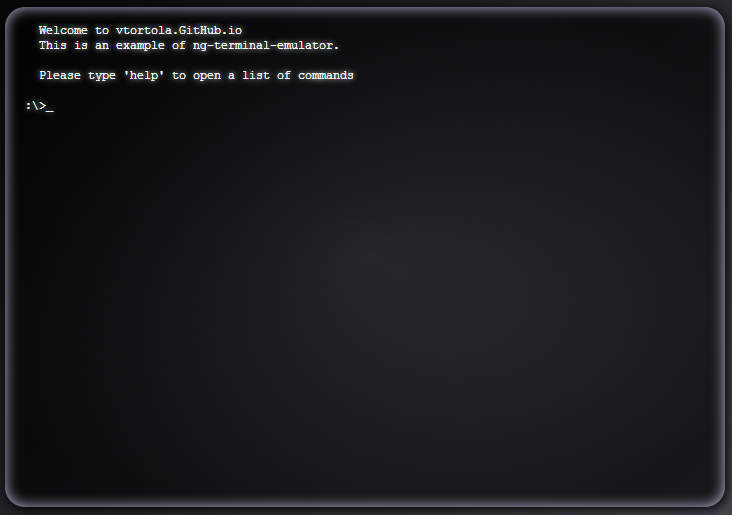
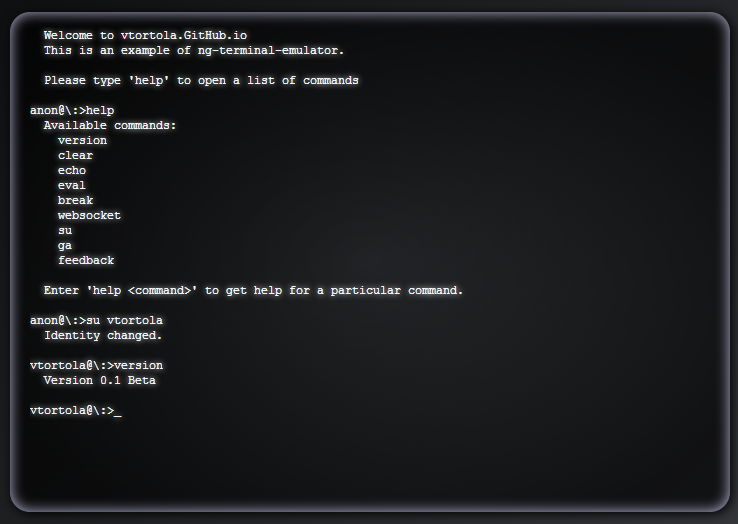
Prompt

Changed region(s): [[0.0, 0.0, 0.9918, 0.9942]]

diff --git a/src/vtortola.ng-terminal.js b/src/vtortola.ng-terminal.js
@@ -35,7 +35,7 @@
             _startEffectUrl = url
         };
 
-        me.defaultPrompt = ':\\>';
+        me.promptConfiguration = { end:':>', user:'anon', separator:'@', path:'\\'};
 
         var emptyDonePromise = function ($q,v) {
             var deferred = $q.defer();
@@ -57,8 +57,8 @@
                     else
                         return emptyDonePromise($q, function () { });
                 },
-                getDefaultPrompt: function () {
-                    return me.defaultPrompt;
+                getPromptConfiguration: function () {
+                    return me.promptConfiguration;
                 }
             };
         }];
@@ -68,12 +68,65 @@
     return provider();
 })
 
-.controller('terminalController', ['$scope','terminalConfiguration', function ($scope, terminalConfiguration) {
-    var re = /[\0-\x1F\x7F-\x9F\xAD\u0378\u0379\u037F-\u0383\u038B\u038D\u03A2\u0528-\u0530\u0557\u0558\u0560\u0588\u058B-\u058E\u0590\u05C8-\u05CF\u05EB-\u05EF\u05F5-\u0605\u061C\u061D\u06DD\u070E\u070F\u074B\u074C\u07B2-\u07BF\u07FB-\u07FF\u082E\u082F\u083F\u085C\u085D\u085F-\u089F\u08A1\u08AD-\u08E3\u08FF\u0978\u0980\u0984\u098D\u098E\u0991\u0992\u09A9\u09B1\u09B3-\u09B5\u09BA\u09BB\u09C5\u09C6\u09C9\u09CA\u09CF-\u09D6\u09D8-\u09DB\u09DE\u09E4\u09E5\u09FC-\u0A00\u0A04\u0A0B-\u0A0E\u0A11\u0A12\u0A29\u0A31\u0A34\u0A37\u0A3A\u0A3B\u0A3D\u0A43-\u0A46\u0A49\u0A4A\u0A4E-\u0A50\u0A52-\u0A58\u0A5D\u0A5F-\u0A65\u0A76-\u0A80\u0A84\u0A8E\u0A92\u0AA9\u0AB1\u0AB4\u0ABA\u0ABB\u0AC6\u0ACA\u0ACE\u0ACF\u0AD1-\u0ADF\u0AE4\u0AE5\u0AF2-\u0B00\u0B04\u0B0D\u0B0E\u0B11\u0B12\u0B29\u0B31\u0B34\u0B3A\u0B3B\u0B45\u0B46\u0B49\u0B4A\u0B4E-\u0B55\u0B58-\u0B5B\u0B5E\u0B64\u0B65\u0B78-\u0B81\u0B84\u0B8B-\u0B8D\u0B91\u0B96-\u0B98\u0B9B\u0B9D\u0BA0-\u0BA2\u0BA5-\u0BA7\u0BAB-\u0BAD\u0BBA-\u0BBD\u0BC3-\u0BC5\u0BC9\u0BCE\u0BCF\u0BD1-\u0BD6\u0BD8-\u0BE5\u0BFB-\u0C00\u0C04\u0C0D\u0C11\u0C29\u0C34\u0C3A-\u0C3C\u0C45\u0C49\u0C4E-\u0C54\u0C57\u0C5A-\u0C5F\u0C64\u0C65\u0C70-\u0C77\u0C80\u0C81\u0C84\u0C8D\u0C91\u0CA9\u0CB4\u0CBA\u0CBB\u0CC5\u0CC9\u0CCE-\u0CD4\u0CD7-\u0CDD\u0CDF\u0CE4\u0CE5\u0CF0\u0CF3-\u0D01\u0D04\u0D0D\u0D11\u0D3B\u0D3C\u0D45\u0D49\u0D4F-\u0D56\u0D58-\u0D5F\u0D64\u0D65\u0D76-\u0D78\u0D80\u0D81\u0D84\u0D97-\u0D99\u0DB2\u0DBC\u0DBE\u0DBF\u0DC7-\u0DC9\u0DCB-\u0DCE\u0DD5\u0DD7\u0DE0-\u0DF1\u0DF5-\u0E00\u0E3B-\u0E3E\u0E5C-\u0E80\u0E83\u0E85\u0E86\u0E89\u0E8B\u0E8C\u0E8E-\u0E93\u0E98\u0EA0\u0EA4\u0EA6\u0EA8\u0EA9\u0EAC\u0EBA\u0EBE\u0EBF\u0EC5\u0EC7\u0ECE\u0ECF\u0EDA\u0EDB\u0EE0-\u0EFF\u0F48\u0F6D-\u0F70\u0F98\u0FBD\u0FCD\u0FDB-\u0FFF\u10C6\u10C8-\u10CC\u10CE\u10CF\u1249\u124E\u124F\u1257\u1259\u125E\u125F\u1289\u128E\u128F\u12B1\u12B6\u12B7\u12BF\u12C1\u12C6\u12C7\u12D7\u1311\u1316\u1317\u135B\u135C\u137D-\u137F\u139A-\u139F\u13F5-\u13FF\u169D-\u169F\u16F1-\u16FF\u170D\u1715-\u171F\u1737-\u173F\u1754-\u175F\u176D\u1771\u1774-\u177F\u17DE\u17DF\u17EA-\u17EF\u17FA-\u17FF\u180F\u181A-\u181F\u1878-\u187F\u18AB-\u18AF\u18F6-\u18FF\u191D-\u191F\u192C-\u192F\u193C-\u193F\u1941-\u1943\u196E\u196F\u1975-\u197F\u19AC-\u19AF\u19CA-\u19CF\u19DB-\u19DD\u1A1C\u1A1D\u1A5F\u1A7D\u1A7E\u1A8A-\u1A8F\u1A9A-\u1A9F\u1AAE-\u1AFF\u1B4C-\u1B4F\u1B7D-\u1B7F\u1BF4-\u1BFB\u1C38-\u1C3A\u1C4A-\u1C4C\u1C80-\u1CBF\u1CC8-\u1CCF\u1CF7-\u1CFF\u1DE7-\u1DFB\u1F16\u1F17\u1F1E\u1F1F\u1F46\u1F47\u1F4E\u1F4F\u1F58\u1F5A\u1F5C\u1F5E\u1F7E\u1F7F\u1FB5\u1FC5\u1FD4\u1FD5\u1FDC\u1FF0\u1FF1\u1FF5\u1FFF\u200B-\u200F\u202A-\u202E\u2060-\u206F\u2072\u2073\u208F\u209D-\u209F\u20BB-\u20CF\u20F1-\u20FF\u218A-\u218F\u23F4-\u23FF\u2427-\u243F\u244B-\u245F\u2700\u2B4D-\u2B4F\u2B5A-\u2BFF\u2C2F\u2C5F\u2CF4-\u2CF8\u2D26\u2D28-\u2D2C\u2D2E\u2D2F\u2D68-\u2D6E\u2D71-\u2D7E\u2D97-\u2D9F\u2DA7\u2DAF\u2DB7\u2DBF\u2DC7\u2DCF\u2DD7\u2DDF\u2E3C-\u2E7F\u2E9A\u2EF4-\u2EFF\u2FD6-\u2FEF\u2FFC-\u2FFF\u3040\u3097\u3098\u3100-\u3104\u312E-\u3130\u318F\u31BB-\u31BF\u31E4-\u31EF\u321F\u32FF\u4DB6-\u4DBF\u9FCD-\u9FFF\uA48D-\uA48F\uA4C7-\uA4CF\uA62C-\uA63F\uA698-\uA69E\uA6F8-\uA6FF\uA78F\uA794-\uA79F\uA7AB-\uA7F7\uA82C-\uA82F\uA83A-\uA83F\uA878-\uA87F\uA8C5-\uA8CD\uA8DA-\uA8DF\uA8FC-\uA8FF\uA954-\uA95E\uA97D-\uA97F\uA9CE\uA9DA-\uA9DD\uA9E0-\uA9FF\uAA37-\uAA3F\uAA4E\uAA4F\uAA5A\uAA5B\uAA7C-\uAA7F\uAAC3-\uAADA\uAAF7-\uAB00\uAB07\uAB08\uAB0F\uAB10\uAB17-\uAB1F\uAB27\uAB2F-\uABBF\uABEE\uABEF\uABFA-\uABFF\uD7A4-\uD7AF\uD7C7-\uD7CA\uD7FC-\uF8FF\uFA6E\uFA6F\uFADA-\uFAFF\uFB07-\uFB12\uFB18-\uFB1C\uFB37\uFB3D\uFB3F\uFB42\uFB45\uFBC2-\uFBD2\uFD40-\uFD4F\uFD90\uFD91\uFDC8-\uFDEF\uFDFE\uFDFF\uFE1A-\uFE1F\uFE27-\uFE2F\uFE53\uFE67\uFE6C-\uFE6F\uFE75\uFEFD-\uFF00\uFFBF-\uFFC1\uFFC8\uFFC9\uFFD0\uFFD1\uFFD8\uFFD9\uFFDD-\uFFDF\uFFE7\uFFEF-\uFFFB\uFFFE\uFFFF]/g;
-    var defaultPrompt = terminalConfiguration.getDefaultPrompt();
+.service('prompt', ['terminalConfiguration', function(terminalConfiguration){
+    var prompt = function(){
+        var me = {};
+        var _user, _path, _userPathSeparator, _promptEnd;
 
+        var config = terminalConfiguration.getPromptConfiguration();
+
+        var build = function () {
+            me.text = _user + _userPathSeparator + _path + _promptEnd;
+        };
+
+        me.resetPath = function () {
+            _path = config && config.path ? config.path : '';
+            build();
+        };
+
+        me.resetUser = function () {
+            _user = config && config.user ? config.user : '';
+            build();
+        }
+
+        me.reset = function () {
+            _user = config && config.user ? config.user : '';
+            _path = config && config.path ? config.path : '';
+            _userPathSeparator = config && config.separator ? config.separator : '';
+            _promptEnd = config && config.end ? config.end : '';
+            build();
+        };
+
+        me.user = function (user) {
+            if (user) {
+                _user = user;
+                build();
+            }
+            return _user;
+        };
+
+        me.path = function (path) {
+            if (path) {
+                _path = path;
+                build();
+            }
+            return _path;
+        }
+
+        me.text = '';
+
+        me.reset();
+
+        return me;
+    };
+    return prompt();
+}])
+
+.controller('terminalController', ['$scope','terminalConfiguration','prompt', function ($scope, terminalConfiguration, prompt) {
+    var re = /[\0-\x1F\x7F-\x9F\xAD\u0378\u0379\u037F-\u0383\u038B\u038D\u03A2\u0528-\u0530\u0557\u0558\u0560\u0588\u058B-\u058E\u0590\u05C8-\u05CF\u05EB-\u05EF\u05F5-\u0605\u061C\u061D\u06DD\u070E\u070F\u074B\u074C\u07B2-\u07BF\u07FB-\u07FF\u082E\u082F\u083F\u085C\u085D\u085F-\u089F\u08A1\u08AD-\u08E3\u08FF\u0978\u0980\u0984\u098D\u098E\u0991\u0992\u09A9\u09B1\u09B3-\u09B5\u09BA\u09BB\u09C5\u09C6\u09C9\u09CA\u09CF-\u09D6\u09D8-\u09DB\u09DE\u09E4\u09E5\u09FC-\u0A00\u0A04\u0A0B-\u0A0E\u0A11\u0A12\u0A29\u0A31\u0A34\u0A37\u0A3A\u0A3B\u0A3D\u0A43-\u0A46\u0A49\u0A4A\u0A4E-\u0A50\u0A52-\u0A58\u0A5D\u0A5F-\u0A65\u0A76-\u0A80\u0A84\u0A8E\u0A92\u0AA9\u0AB1\u0AB4\u0ABA\u0ABB\u0AC6\u0ACA\u0ACE\u0ACF\u0AD1-\u0ADF\u0AE4\u0AE5\u0AF2-\u0B00\u0B04\u0B0D\u0B0E\u0B11\u0B12\u0B29\u0B31\u0B34\u0B3A\u0B3B\u0B45\u0B46\u0B49\u0B4A\u0B4E-\u0B55\u0B58-\u0B5B\u0B5E\u0B64\u0B65\u0B78-\u0B81\u0B84\u0B8B-\u0B8D\u0B91\u0B96-\u0B98\u0B9B\u0B9D\u0BA0-\u0BA2\u0BA5-\u0BA7\u0BAB-\u0BAD\u0BBA-\u0BBD\u0BC3-\u0BC5\u0BC9\u0BCE\u0BCF\u0BD1-\u0BD6\u0BD8-\u0BE5\u0BFB-\u0C00\u0C04\u0C0D\u0C11\u0C29\u0C34\u0C3A-\u0C3C\u0C45\u0C49\u0C4E-\u0C54\u0C57\u0C5A-\u0C5F\u0C64\u0C65\u0C70-\u0C77\u0C80\u0C81\u0C84\u0C8D\u0C91\u0CA9\u0CB4\u0CBA\u0CBB\u0CC5\u0CC9\u0CCE-\u0CD4\u0CD7-\u0CDD\u0CDF\u0CE4\u0CE5\u0CF0\u0CF3-\u0D01\u0D04\u0D0D\u0D11\u0D3B\u0D3C\u0D45\u0D49\u0D4F-\u0D56\u0D58-\u0D5F\u0D64\u0D65\u0D76-\u0D78\u0D80\u0D81\u0D84\u0D97-\u0D99\u0DB2\u0DBC\u0DBE\u0DBF\u0DC7-\u0DC9\u0DCB-\u0DCE\u0DD5\u0DD7\u0DE0-\u0DF1\u0DF5-\u0E00\u0E3B-\u0E3E\u0E5C-\u0E80\u0E83\u0E85\u0E86\u0E89\u0E8B\u0E8C\u0E8E-\u0E93\u0E98\u0EA0\u0EA4\u0EA6\u0EA8\u0EA9\u0EAC\u0EBA\u0EBE\u0EBF\u0EC5\u0EC7\u0ECE\u0ECF\u0EDA\u0EDB\u0EE0-\u0EFF\u0F48\u0F6D-\u0F70\u0F98\u0FBD\u0FCD\u0FDB-\u0FFF\u10C6\u10C8-\u10CC\u10CE\u10CF\u1249\u124E\u124F\u1257\u1259\u125E\u125F\u1289\u128E\u128F\u12B1\u12B6\u12B7\u12BF\u12C1\u12C6\u12C7\u12D7\u1311\u1316\u1317\u135B\u135C\u137D-\u137F\u139A-\u139F\u13F5-\u13FF\u169D-\u169F\u16F1-\u16FF\u170D\u1715-\u171F\u1737-\u173F\u1754-\u175F\u176D\u1771\u1774-\u177F\u17DE\u17DF\u17EA-\u17EF\u17FA-\u17FF\u180F\u181A-\u181F\u1878-\u187F\u18AB-\u18AF\u18F6-\u18FF\u191D-\u191F\u192C-\u192F\u193C-\u193F\u1941-\u1943\u196E\u196F\u1975-\u197F\u19AC-\u19AF\u19CA-\u19CF\u19DB-\u19DD\u1A1C\u1A1D\u1A5F\u1A7D\u1A7E\u1A8A-\u1A8F\u1A9A-\u1A9F\u1AAE-\u1AFF\u1B4C-\u1B4F\u1B7D-\u1B7F\u1BF4-\u1BFB\u1C38-\u1C3A\u1C4A-\u1C4C\u1C80-\u1CBF\u1CC8-\u1CCF\u1CF7-\u1CFF\u1DE7-\u1DFB\u1F16\u1F17\u1F1E\u1F1F\u1F46\u1F47\u1F4E\u1F4F\u1F58\u1F5A\u1F5C\u1F5E\u1F7E\u1F7F\u1FB5\u1FC5\u1FD4\u1FD5\u1FDC\u1FF0\u1FF1\u1FF5\u1FFF\u200B-\u200F\u202A-\u202E\u2060-\u206F\u2072\u2073\u208F\u209D-\u209F\u20BB-\u20CF\u20F1-\u20FF\u218A-\u218F\u23F4-\u23FF\u2427-\u243F\u244B-\u245F\u2700\u2B4D-\u2B4F\u2B5A-\u2BFF\u2C2F\u2C5F\u2CF4-\u2CF8\u2D26\u2D28-\u2D2C\u2D2E\u2D2F\u2D68-\u2D6E\u2D71-\u2D7E\u2D97-\u2D9F\u2DA7\u2DAF\u2DB7\u2DBF\u2DC7\u2DCF\u2DD7\u2DDF\u2E3C-\u2E7F\u2E9A\u2EF4-\u2EFF\u2FD6-\u2FEF\u2FFC-\u2FFF\u3040\u3097\u3098\u3100-\u3104\u312E-\u3130\u318F\u31BB-\u31BF\u31E4-\u31EF\u321F\u32FF\u4DB6-\u4DBF\u9FCD-\u9FFF\uA48D-\uA48F\uA4C7-\uA4CF\uA62C-\uA63F\uA698-\uA69E\uA6F8-\uA6FF\uA78F\uA794-\uA79F\uA7AB-\uA7F7\uA82C-\uA82F\uA83A-\uA83F\uA878-\uA87F\uA8C5-\uA8CD\uA8DA-\uA8DF\uA8FC-\uA8FF\uA954-\uA95E\uA97D-\uA97F\uA9CE\uA9DA-\uA9DD\uA9E0-\uA9FF\uAA37-\uAA3F\uAA4E\uAA4F\uAA5A\uAA5B\uAA7C-\uAA7F\uAAC3-\uAADA\uAAF7-\uAB00\uAB07\uAB08\uAB0F\uAB10\uAB17-\uAB1F\uAB27\uAB2F-\uABBF\uABEE\uABEF\uABFA-\uABFF\uD7A4-\uD7AF\uD7C7-\uD7CA\uD7FC-\uF8FF\uFA6E\uFA6F\uFADA-\uFAFF\uFB07-\uFB12\uFB18-\uFB1C\uFB37\uFB3D\uFB3F\uFB42\uFB45\uFBC2-\uFBD2\uFD40-\uFD4F\uFD90\uFD91\uFDC8-\uFDEF\uFDFE\uFDFF\uFE1A-\uFE1F\uFE27-\uFE2F\uFE53\uFE67\uFE6C-\uFE6F\uFE75\uFEFD-\uFF00\uFFBF-\uFFC1\uFFC8\uFFC9\uFFD0\uFFD1\uFFD8\uFFD9\uFFDD-\uFFDF\uFFE7\uFFEF-\uFFFB\uFFFE\uFFFF]/g;
+    
     $scope.commandLine = '';
-    $scope.prompt = defaultPrompt;
+    $scope.prompt = prompt;
     $scope.results = [];
     $scope.showPrompt = true;
     $scope.typeSound = function () { };
@@ -108,12 +161,27 @@
         }
         else if (cmd.command == 'change-prompt') {
             if (cmd.prompt) {
-                $scope.prompt = cmd.prompt;
+                if (cmd.prompt.user)
+                    $scope.prompt.user(cmd.prompt.user);
+                if (cmd.prompt.path)
+                    $scope.prompt.path(cmd.prompt.path);
                 $scope.$$phase || $scope.$apply();
             }
         }
         else if (cmd.command == 'reset-prompt') {
-            $scope.prompt = defaultPrompt;
+            var resetAll = true;
+            if (cmd.prompt) {
+                if (cmd.prompt.user) {
+                    $scope.prompt.resetUser();
+                    resetAll = false;
+                }
+                else if (cmd.prompt.path) {
+                    $scope.prompt.resetPath();
+                    resetAll = false;
+                }
+            }
+            if(resetAll)
+                $scope.prompt.reset();
             $scope.$$phase || $scope.$apply();
         }
     });
@@ -169,7 +237,7 @@
         if(command != commandHistory[commandHistory.length-1])
             commandHistory.push(command);
 
-        $scope.results.push({ type: 'text', text:[$scope.prompt + command] });
+        $scope.results.push({ type: 'text', text:[$scope.prompt.text + command] });
         $scope.$emit('terminal-input', [{ command: command }]);
         
         $scope.$apply();
@@ -187,7 +255,7 @@
     return {
         restrict: 'E',
         controller: 'terminalController',
-        template: "<section class='terminal' ng-paste='handlePaste($event)'><div class='terminal-viewport'><div class='terminal-results'></div><span class='terminal-prompt' ng-show='showPrompt'>{{prompt}}</span><span class='terminal-input'>{{commandLine}}</span><span class='terminal-cursor'>_</span></div></section>",
+        template: "<section class='terminal' ng-paste='handlePaste($event)'><div class='terminal-viewport'><div class='terminal-results'></div><span class='terminal-prompt' ng-show='showPrompt'>{{prompt.text}}</span><span class='terminal-input'>{{commandLine}}</span><span class='terminal-cursor'>_</span></div></section>",
         link: function (scope, element, attrs, controller) {
             
             var consoleView = angular.element(element[0].querySelector('.terminal-viewport'));

diff --git a/tests/spec/vtortola.ng-terminal.spec.js b/tests/spec/vtortola.ng-terminal.spec.js
@@ -34,6 +34,8 @@
             scope.$on('terminal-input', function (e) {
                 expect(scope.commandLine).toEqual("");
                 expect(scope.results.length).toEqual(1);
+                expect(scope.results[0].text.length).toEqual(1);
+                expect(scope.results[0].text[0]).toEqual(scope.prompt.text + "RRR");
                 done();
             });
 
@@ -84,16 +86,16 @@
 
                 scope.$broadcast('terminal-command', {
                     command: 'change-prompt',
-                    prompt: 'testPrompt'
+                    prompt: { user: 'testPrompt' }
                 });
 
-                expect(scope.prompt).toEqual("testPrompt");
+                expect(scope.prompt.text).toEqual("testPrompt@\\:>");
 
                 scope.$emit('terminal-command', {
                     command: 'reset-prompt'
                 });
 
-                expect(scope.prompt).toEqual(":\\>");
+                expect(scope.prompt.text).toEqual("anon@\\:>");
             });
 
             it('Can clear results', function () {
@@ -113,5 +115,64 @@
             });
         });
         
+    });
+
+    describe('Service: prompt', function () {
+        var prompt = null;
+        beforeEach(inject(['prompt', function (p) {
+            prompt = p;
+        }]));
+
+        it('Default prompt', function () {
+            expect(prompt.text).toEqual("anon@\\:>");
+        });
+
+        it('Can set properties on prompt', function () {
+            prompt.path('\\user\\whatever');
+            prompt.user('vtortola');
+            
+            expect(prompt.path()).toEqual("\\user\\whatever");
+            expect(prompt.user()).toEqual("vtortola");
+            expect(prompt.text).toEqual("vtortola@\\user\\whatever:>");
+        });
+
+        it('Can reset all properties on prompt', function () {
+            prompt.path('\\user\\whatever');
+            prompt.user('vtortola');
+
+            expect(prompt.path()).toEqual("\\user\\whatever");
+            expect(prompt.user()).toEqual("vtortola");
+            expect(prompt.text).toEqual("vtortola@\\user\\whatever:>");
+
+            prompt.reset();
+
+            expect(prompt.text).toEqual("anon@\\:>");
+        });
+
+        it('Can reset user property on prompt', function () {
+            prompt.path('\\user\\whatever');
+            prompt.user('vtortola');
+
+            expect(prompt.path()).toEqual("\\user\\whatever");
+            expect(prompt.user()).toEqual("vtortola");
+            expect(prompt.text).toEqual("vtortola@\\user\\whatever:>");
+
+            prompt.resetUser();
+
+            expect(prompt.text).toEqual("anon@\\user\\whatever:>");
+        });
+
+        it('Can reset path property on prompt', function () {
+            prompt.path('\\user\\whatever');
+            prompt.user('vtortola');
+
+            expect(prompt.path()).toEqual("\\user\\whatever");
+            expect(prompt.user()).toEqual("vtortola");
+            expect(prompt.text).toEqual("vtortola@\\user\\whatever:>");
+
+            prompt.resetPath();
+
+            expect(prompt.text).toEqual("vtortola@\\:>");
+        });
     });
 });

diff --git a/example/example.command.implementations.js b/example/example.command.implementations.js
@@ -63,7 +63,7 @@
                        "Type 'exit' to exit."],
                 breakLine: true
             });
-            session.commands.push({ command: 'change-prompt', prompt: 'websocket:/>' });
+            session.commands.push({ command: 'change-prompt', prompt: { path: 'websocket[' + url+']'} });
             session.contextName = "websocket";
             session.context = function () {
                 var me = {};
@@ -89,7 +89,7 @@
                         ws.close();
                         s.contextName = "";
                         delete s.context;
-                        s.commands.push({ command: 'reset-prompt' });
+                        s.commands.push({ command: 'reset-prompt', prompt: {path:true} });
                         s.output.push({ output: true, text: ["Websocket ended."], breakLine: true });
                         return;
                     }
@@ -116,7 +116,7 @@
 
             ga('set', { userId: login.toString() });
             session.login = login;
-            session.commands.push({ command: 'change-prompt', prompt: login + ':/>', user:true });
+            session.commands.push({ command: 'change-prompt', prompt: { user: login }});
             session.output.push({ output: true, text: ["Identity changed."], breakLine: true });
         }
         return me;

diff --git a/tests/index.html b/tests/index.html
@@ -21,9 +21,10 @@
   <script src="../example/example.command.implementations.js"></script>
 
   <!-- include spec files here... -->
+  <script src="spec/vtortola.ng-terminal.spec.js"></script>
   <script src="spec/example.command.implementations.spec.js"></script>
   <script src="spec/example.command.tools.spec.js"></script>
-  <script src="spec/vtortola.ng-terminal.spec.js"></script>
+  
 </head>
 
 <body>
